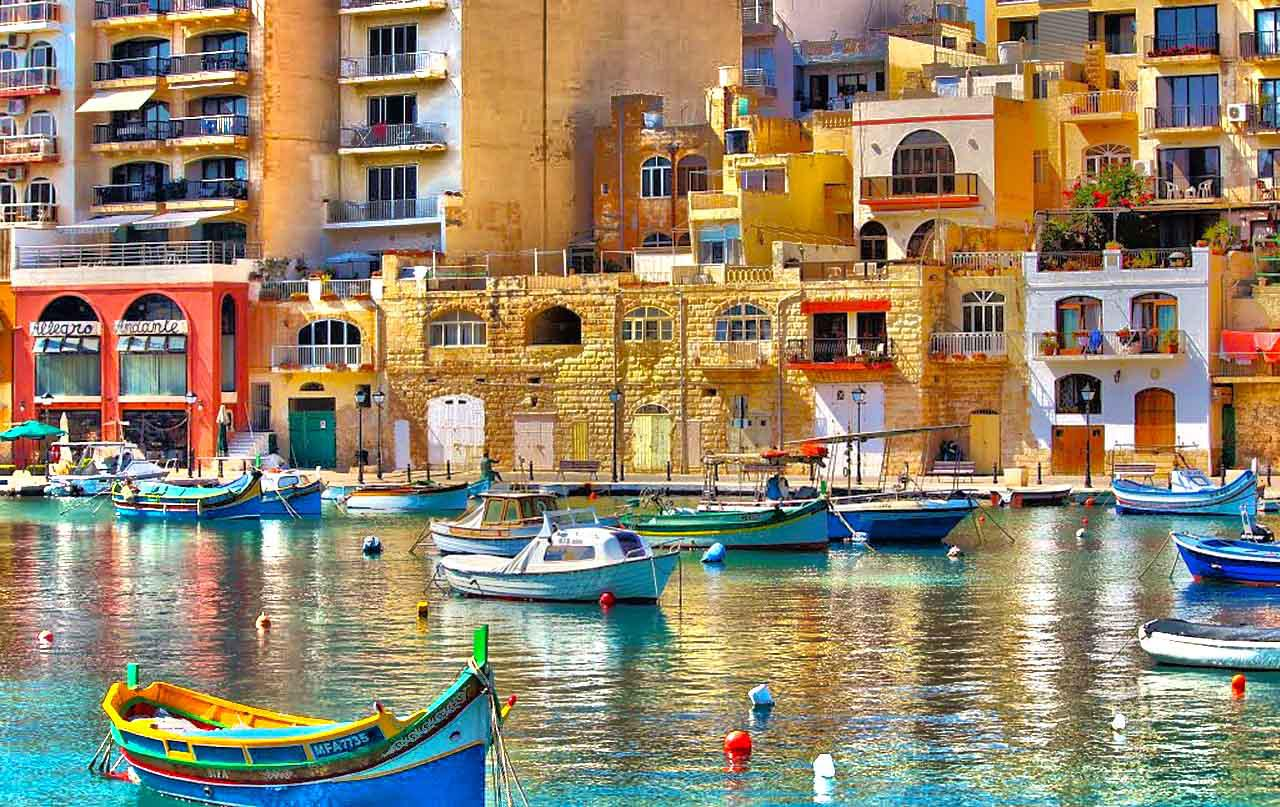
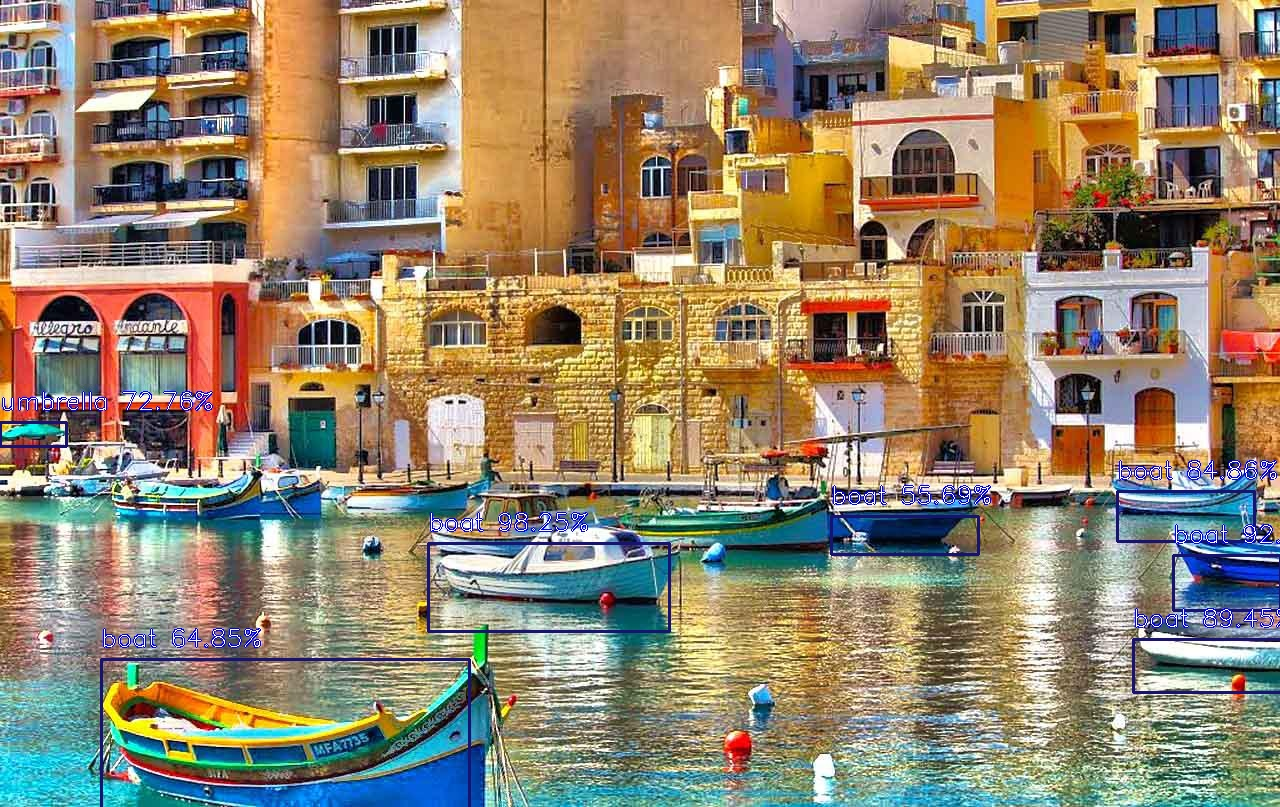
minor bug fixing

diff --git a/static/instaSeer/instaSeerDf.html b/static/instaSeer/instaSeerDf.html
@@ -1,6 +1,7 @@
-<table border="1" class="dataframe">
+<link href="https://cdn.jsdelivr.net/npm/bootstrap@5.0.0-beta2/dist/css/bootstrap.min.css" rel="stylesheet" integrity="sha384-BmbxuPwQa2lc/FVzBcNJ7UAyJxM6wuqIj61tLrc4wSX0szH/Ev+nYRRuWlolflfl" crossorigin="anonymous">
+<meta http-Equiv="Cache-Control" Content="no-cache" /> <meta http-Equiv="Pragma" Content="no-cache" /> <meta http-Equiv="Expires" Content="0" /> <table class="table">
   <thead>
-    <tr style="text-align: right;">
+    <tr style="text-align: left;">
       <th></th>
       <th>image</th>
       <th>caption</th>
@@ -11,17 +12,24 @@
   <tbody>
     <tr>
       <th>0</th>
-      <td><img src="https://s1.1zoom.ru/big3/11/Netherlands_Houses_478971.jpg" width="400" ></td>
-      <td>This is a beautiful picture of Nehtherlands #amsterdam #travel @user1 @user2</td>
-      <td>imageRatio: 1.5 <br>numOfHashtags: 2 <br>numOfTaggedUsers: 2<br>lenOfCaption: 76<br>uploadDayOfWeek: 3<br>presentObjects: []</td>
-      <td>0.025</td>
+      <td><img src="https://www.spica.com/sites/5d683cbd24d35f11477fed0f/content_entry5d8b217524d35f11477ff600/5f8d3fbb24d35f5015ebe319/files/netherlands.jpeg" width="400" ></td>
+      <td>This is a beautiful picture of Netherlands #amsterdam @user1 @user2</td>
+      <td>imageRatio: 1.5 <br>numOfHashtags: 1 <br>numOfTaggedUsers: 2<br>lenOfCaption: 67<br>uploadDayOfWeek: 3<br>presentObjects: ['car']</td>
+      <td>0.012</td>
     </tr>
     <tr>
       <th>1</th>
       <td><img src="https://timelapsenetwork.com/wp-content/uploads/TL-foto-Milano-City-5.jpg" width="400" ></td>
-      <td>This is Milano #italy @user3</td>
-      <td>imageRatio: 1.5 <br>numOfHashtags: 1 <br>numOfTaggedUsers: 1<br>lenOfCaption: 28<br>uploadDayOfWeek: 3<br>presentObjects: ['person']</td>
-      <td>0.016</td>
+      <td>This is Milano. Vibrant and marvelous city #milano #italy @user3</td>
+      <td>imageRatio: 1.5 <br>numOfHashtags: 2 <br>numOfTaggedUsers: 1<br>lenOfCaption: 64<br>uploadDayOfWeek: 3<br>presentObjects: ['person']</td>
+      <td>0.017</td>
+    </tr>
+    <tr>
+      <th>2</th>
+      <td><img src="https://www.kanoa.it/wp-content/uploads/2019/04/Valletta-Malta.jpg" width="400" ></td>
+      <td>Boats in Valletta, Malta #malta #valletta</td>
+      <td>imageRatio: 1.59 <br>numOfHashtags: 2 <br>numOfTaggedUsers: 0<br>lenOfCaption: 41<br>uploadDayOfWeek: 3<br>presentObjects: ['umbrella', 'boat']</td>
+      <td>0.017</td>
     </tr>
   </tbody>
 </table>
